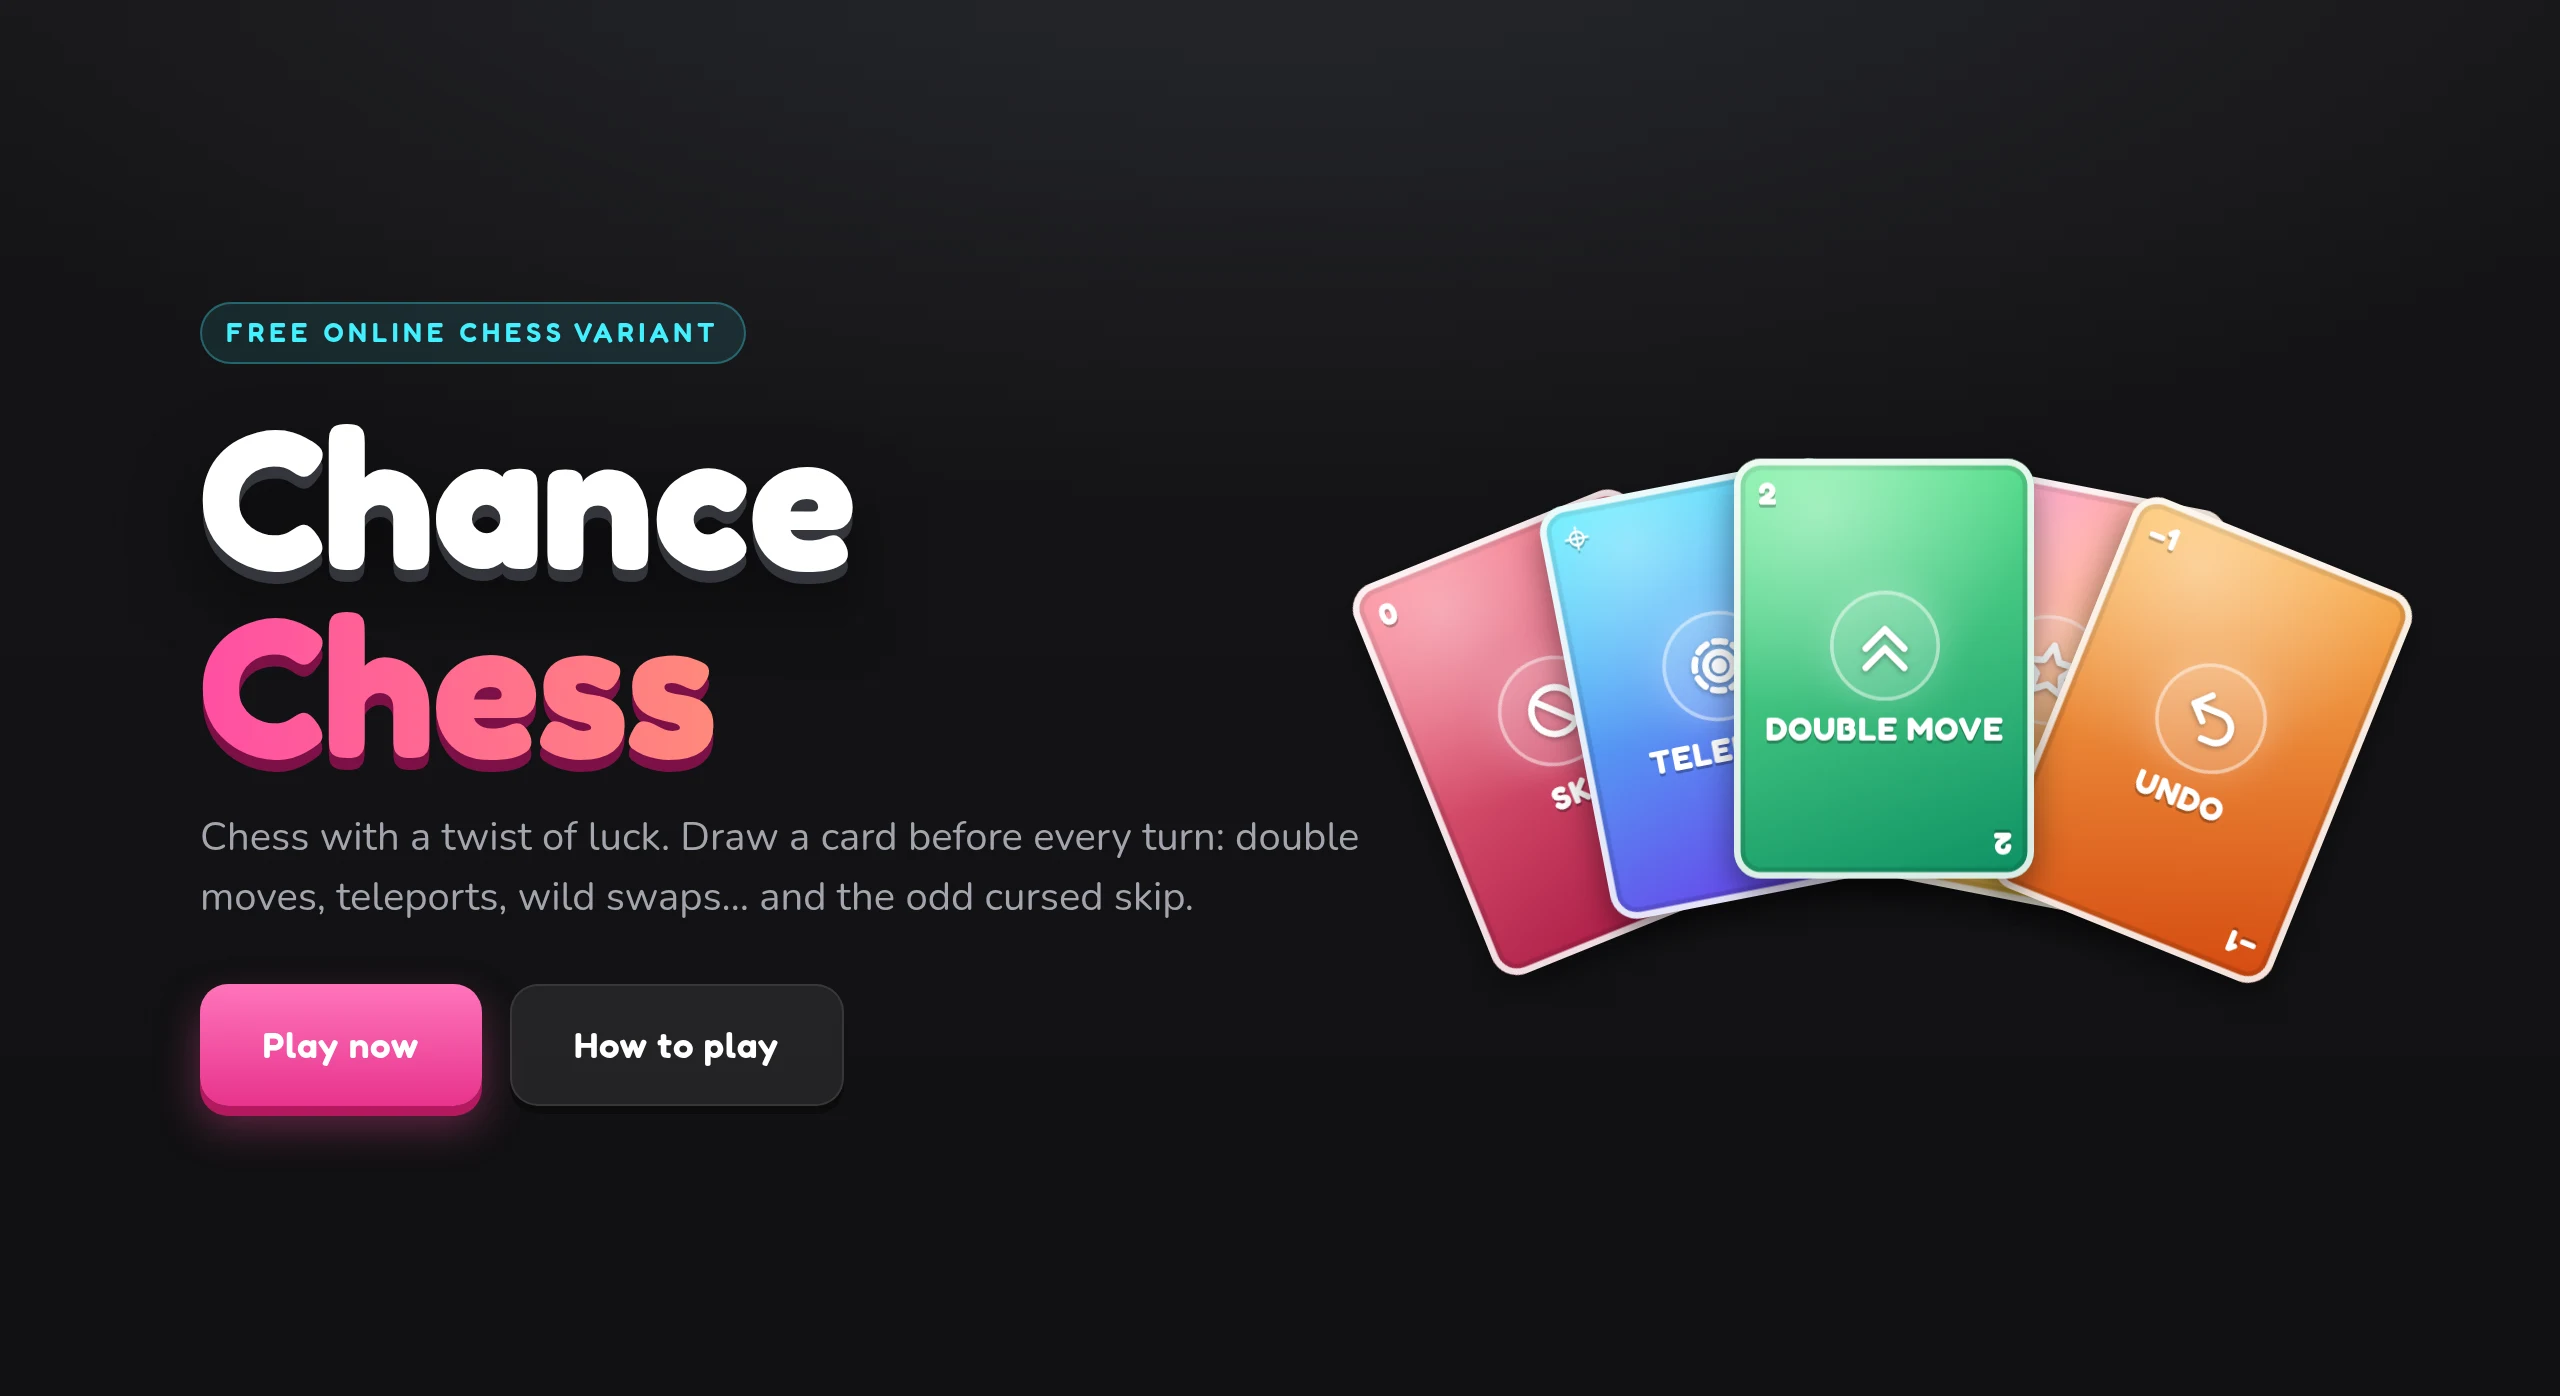
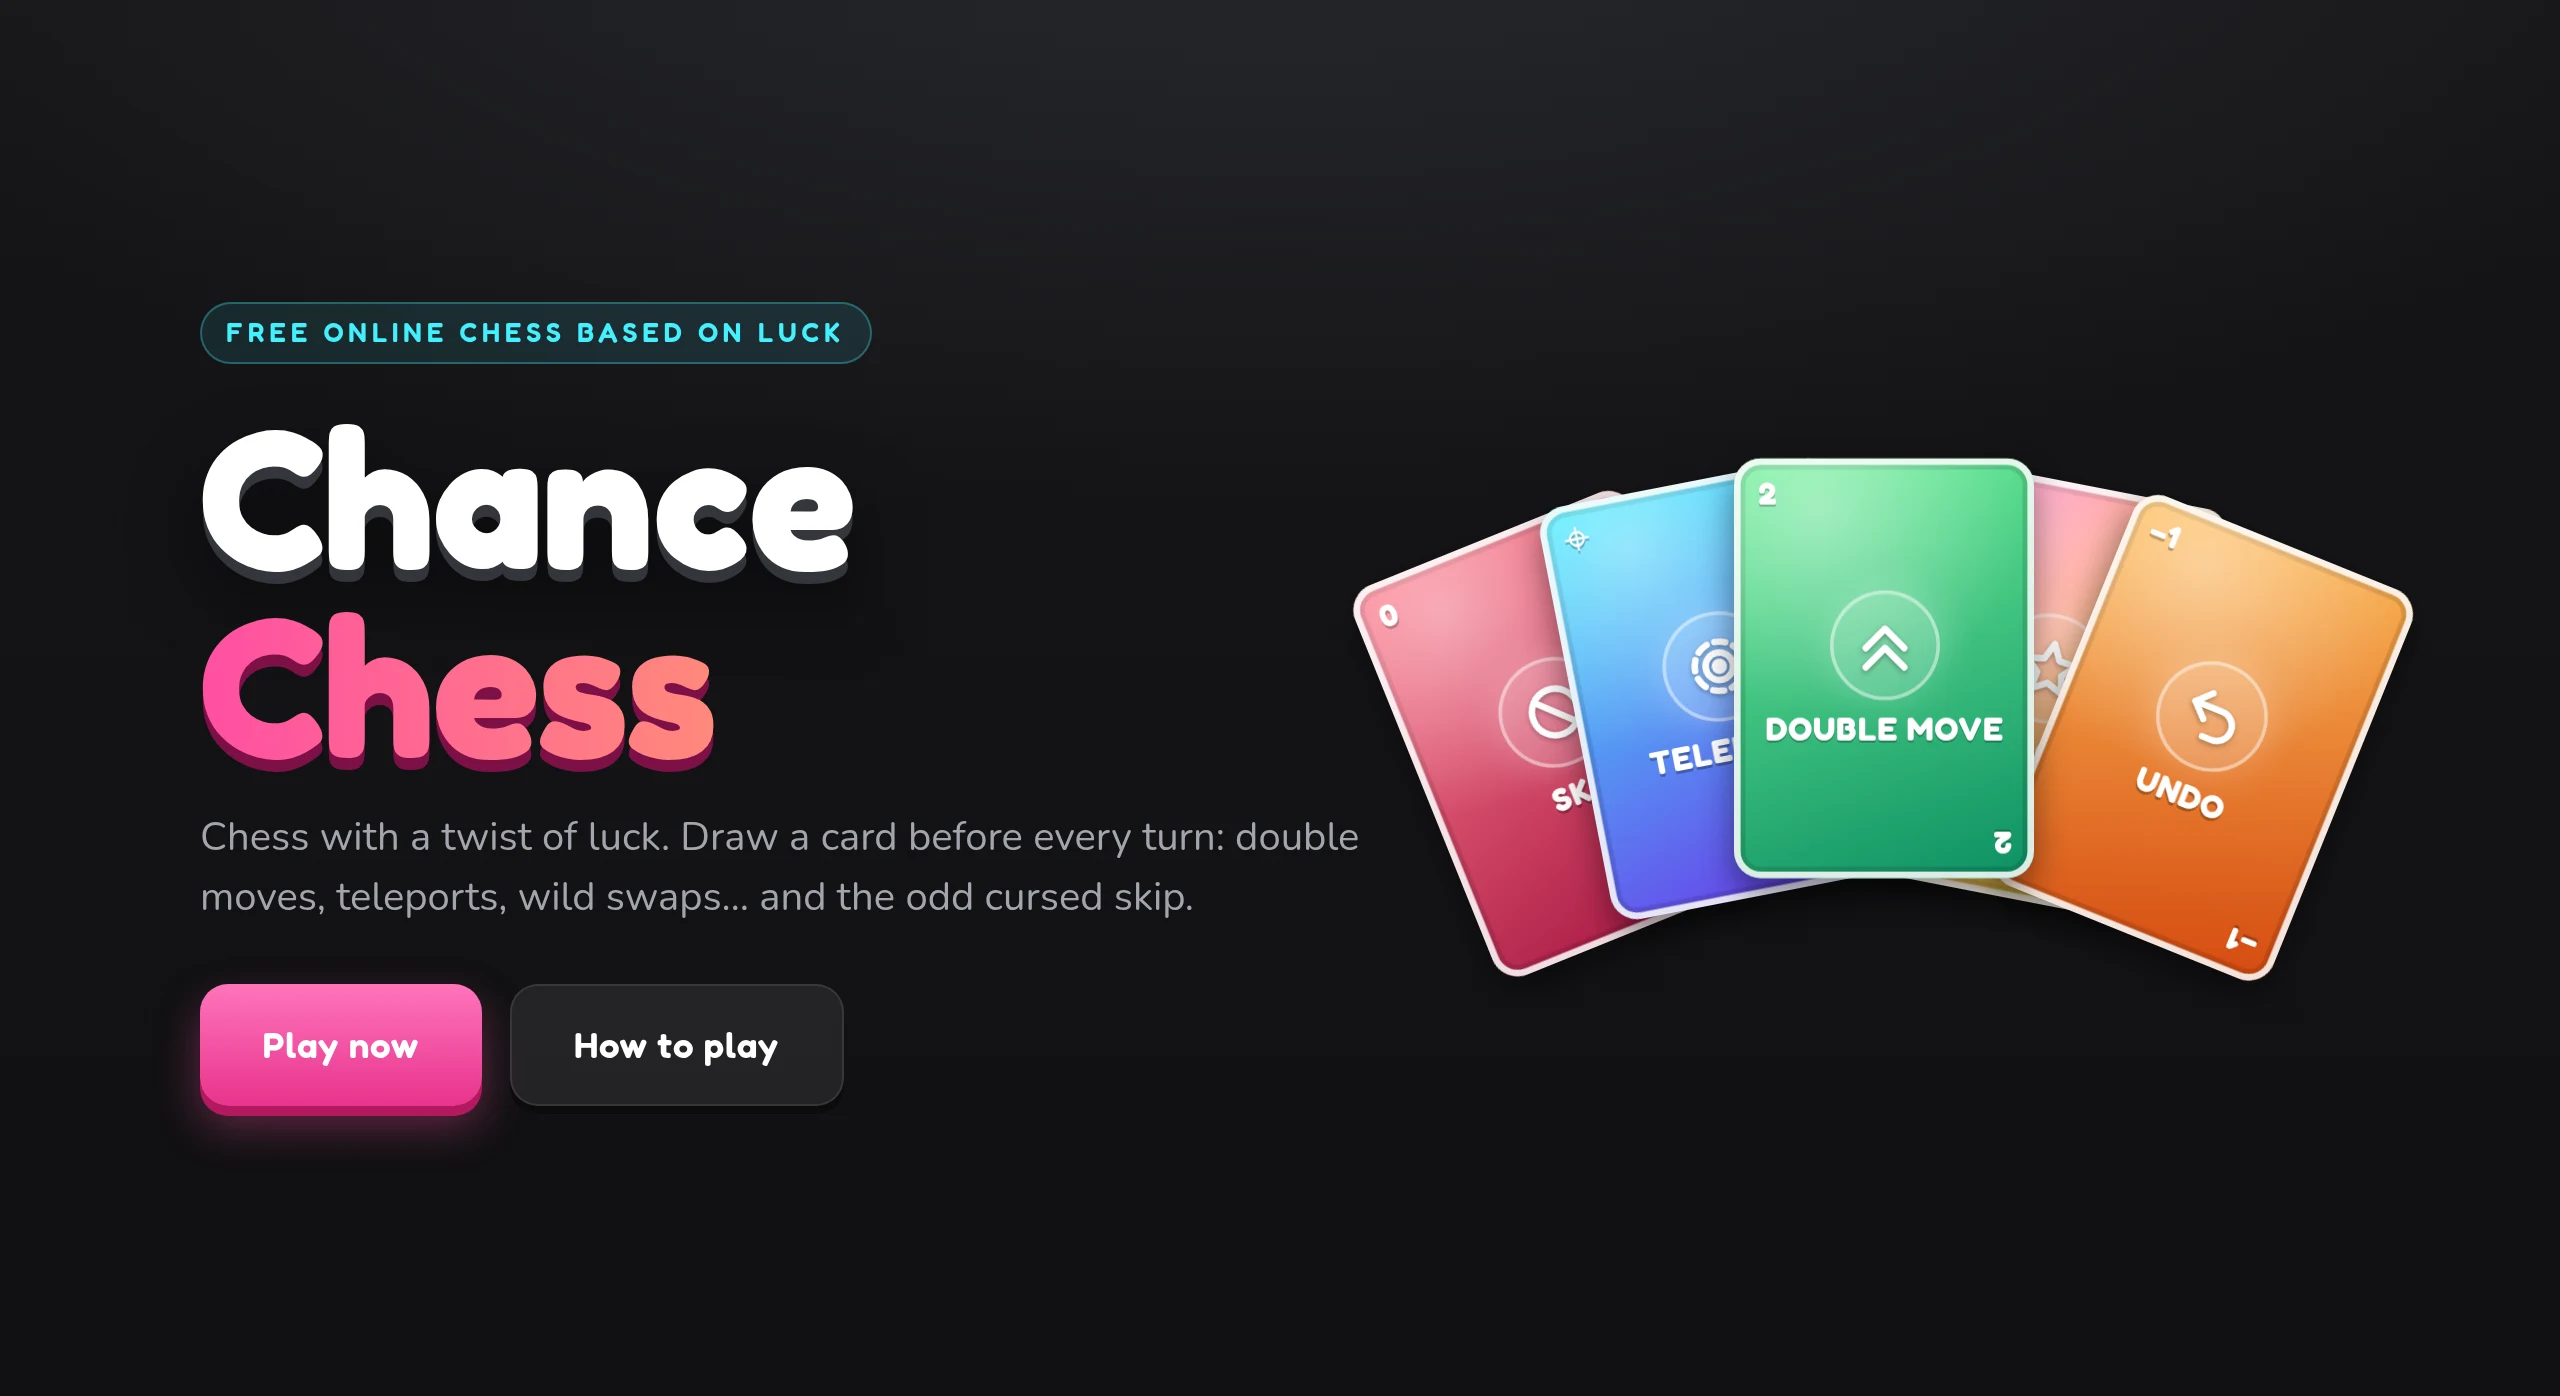
Full name in the credits and a new home page label
- Footer: "Created by Sabrish Varadharajan" with a separate
  "Portfolio website" link; full name also in the copyright line,
  page metadata, README, LICENSE and package.json
- Home page label now reads "Free online chess based on luck"
  (also in the link-preview image and the README screenshot)

diff --git a/index.html b/index.html
@@ -9,7 +9,7 @@
       content="Chance Chess is a free online chess variant: draw a card before every turn for double moves, teleports, wild swaps and cursed skips. Play friends with a link, or the computer."
     />
     <meta name="theme-color" content="#141416" />
-    <meta name="author" content="Sabrish" />
+    <meta name="author" content="Sabrish Varadharajan" />
     <link rel="author" href="https://sabrish.vercel.app/" />
     <link rel="icon" href="/favicon.svg" type="image/svg+xml" />
     <link rel="apple-touch-icon" href="/apple-touch-icon.png" />
@@ -44,8 +44,8 @@
         "playMode": ["SinglePlayer", "MultiPlayer"],
         "numberOfPlayers": { "@type": "QuantitativeValue", "minValue": 1, "maxValue": 2 },
         "offers": { "@type": "Offer", "price": "0", "priceCurrency": "USD" },
-        "author": { "@type": "Person", "name": "Sabrish", "url": "https://sabrish.vercel.app/" },
-        "copyrightHolder": { "@type": "Person", "name": "Sabrish", "url": "https://sabrish.vercel.app/" },
+        "author": { "@type": "Person", "name": "Sabrish Varadharajan", "url": "https://sabrish.vercel.app/" },
+        "copyrightHolder": { "@type": "Person", "name": "Sabrish Varadharajan", "url": "https://sabrish.vercel.app/" },
         "copyrightYear": 2026
       }
     </script>

diff --git a/src/client/components/Home.tsx b/src/client/components/Home.tsx
@@ -71,7 +71,7 @@ export function Home({ name, onNameChange, onStart }: HomeProps) {
     <div className="home">
       <header className="hero">
         <div className="hero-copy">
-          <p className="eyebrow">Free online chess variant</p>
+          <p className="eyebrow">Free online chess based on luck</p>
           <h1 className="logo">
             Chance <span>Chess</span>
           </h1>
@@ -215,9 +215,11 @@ export function Home({ name, onNameChange, onStart }: HomeProps) {
 
       <footer className="footer">
         <p className="credit">
-          Created by{' '}
-          <a href={AUTHOR.url} target="_blank" rel="author noopener">
-            {AUTHOR.name}
+          Created by <b>{AUTHOR.name}</b>
+        </p>
+        <p>
+          <a className="portfolio-link" href={AUTHOR.url} target="_blank" rel="author noopener">
+            Portfolio website ↗
           </a>
         </p>
         <p>

diff --git a/src/client/styles.css b/src/client/styles.css
@@ -2138,14 +2138,23 @@ a {
   font-size: 1.15rem;
   color: var(--text);
 }
-.footer .credit a {
-  font-weight: 700;
+.footer .credit b {
   color: var(--pink);
-  text-decoration: none;
-  border-bottom: 2px solid rgba(255, 79, 163, 0.4);
-  transition: border-color 0.15s;
 }
-.footer .credit a:hover {
+.portfolio-link {
+  display: inline-block;
+  margin: 2px 0 6px;
+  padding: 6px 16px;
+  border-radius: 99px;
+  border: 1px solid rgba(255, 79, 163, 0.5);
+  color: var(--text);
+  font-family: var(--font-display);
+  font-weight: 600;
+  text-decoration: none;
+  transition: background 0.15s, border-color 0.15s;
+}
+.portfolio-link:hover {
+  background: rgba(255, 79, 163, 0.15);
   border-color: var(--pink);
 }
 

diff --git a/src/client/content.ts b/src/client/content.ts
@@ -1,6 +1,6 @@
 // Page copy shared by the home page and the build-time pre-render (FAQ structured data).
 
-export const AUTHOR = { name: 'Sabrish', url: 'https://sabrish.vercel.app/' };
+export const AUTHOR = { name: 'Sabrish Varadharajan', url: 'https://sabrish.vercel.app/' };
 
 export const FAQ: { q: string; a: string }[] = [
   {

diff --git a/scripts/brand/og-image.html b/scripts/brand/og-image.html
@@ -141,7 +141,7 @@
   </head>
   <body>
     <div>
-      <span class="eyebrow">Free online chess variant</span>
+      <span class="eyebrow">Free online chess based on luck</span>
       <h1>Chance <span>Chess</span></h1>
       <p>Draw a card before every turn: double moves, teleports, wild swaps… and cursed skips.</p>
     </div>

diff --git a/README.md b/README.md
@@ -36,11 +36,11 @@ Draws: 200 turns in total, or only the kings left.
 
 ## Credits
 
-Created by [Sabrish](https://sabrish.vercel.app/).
+Created by Sabrish Varadharajan ([portfolio website](https://sabrish.vercel.app/)).
 
 - Chess pieces: the "Celtic" set by Maurizio Monge, [MIT licence](public/pieces/LICENSE.txt).
 - Fonts: Fredoka and Nunito (SIL Open Font License).
 
 ## Licence
 
-Copyright © 2026 Sabrish. All rights reserved. The code, artwork and text in this repository may not be copied, modified, hosted or redistributed without written permission. See [LICENSE](LICENSE).
+Copyright © 2026 Sabrish Varadharajan. All rights reserved. The code, artwork and text in this repository may not be copied, modified, hosted or redistributed without written permission. See [LICENSE](LICENSE).
